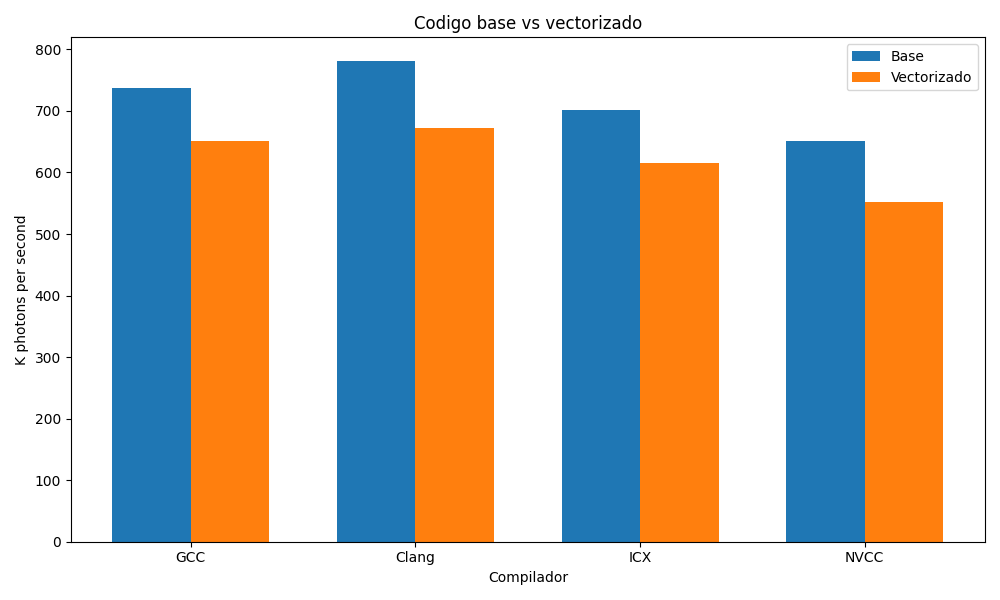
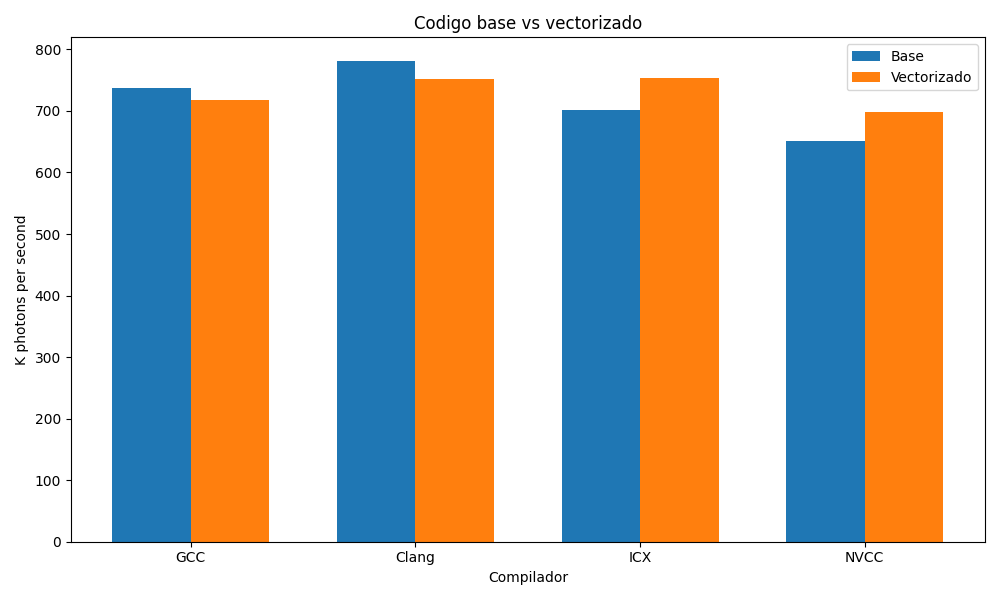
Estadisticas Epyc mejoradas

diff --git a/Epyc/script.py b/Epyc/script.py
@@ -1,0 +1,64 @@
+#!/usr/bin/env python3
+import re
+import matplotlib.pyplot as plt
+import numpy as np
+
+# Archivos de estadísticas (versión Opt con flags de optimización)
+files = {
+    'GCC':       {'Base': 'statsOptgcc_base.txt',  'Vectorizado': 'statsOptgcc_vec.txt'},
+    'Clang':     {'Base': 'statsOptclang_base.txt','Vectorizado': 'statsOptclang_vec.txt'},
+    'ICX':       {'Base': 'statsOpticx_base.txt',  'Vectorizado': 'statsOpticx_vec.txt'},
+    'NVCC':      {'Base': 'statsOptnvcc_base.txt', 'Vectorizado': 'statsOptnvcc_vec.txt'}
+}
+
+def parse_k_photons(filename):
+    """
+    Extrae valores de "K photons per second" del archivo y retorna el promedio.
+    """
+    try:
+        with open(filename, 'r') as f:
+            content = f.read()
+    except FileNotFoundError:
+        print(f"Error: no se encontró el archivo {filename}")
+        return 0.0
+
+    # Buscar líneas con la métrica, e.g.: "# 265.314201 K photons per second"
+    matches = re.findall(r'#\s*([\d\.]+)\s*K photons per second', content)
+    if not matches:
+        print(f"Advertencia: métrica no encontrada en {filename}")
+        return 0.0
+    values = [float(val) for val in matches]
+    return sum(values) / len(values)
+
+# Calcular promedios
+results = {}
+for compiler, versions in files.items():
+    results[compiler] = {}
+    for label, fname in versions.items():
+        avg = parse_k_photons(fname)
+        results[compiler][label] = avg
+        print(f"{compiler} {label}: {avg:.2f} K photons/s")
+
+# Configurar gráfico de barras
+compilers = list(files.keys())
+labels = list(next(iter(files.values())).keys())  # ['Base', 'Vectorizado']
+n_comp = len(compilers)
+n_lbl = len(labels)
+index = np.arange(n_comp)
+bar_width = 0.35
+
+plt.figure(figsize=(10, 6))
+for i, label in enumerate(labels):
+    y = [results[comp][label] for comp in compilers]
+    plt.bar(index + i * bar_width, y, bar_width, label=label)
+
+plt.xlabel('Compilador')
+plt.ylabel('K photons per second')
+plt.title('Codigo base vs vectorizado')
+plt.xticks(index + bar_width * (n_lbl-1) / 2, compilers)
+plt.legend()
+plt.tight_layout()
+plt.savefig('k_photons_opt_base_vec.png')
+plt.show()
+
+print("Gráfico generado: k_photons_opt_base_vec.png")
